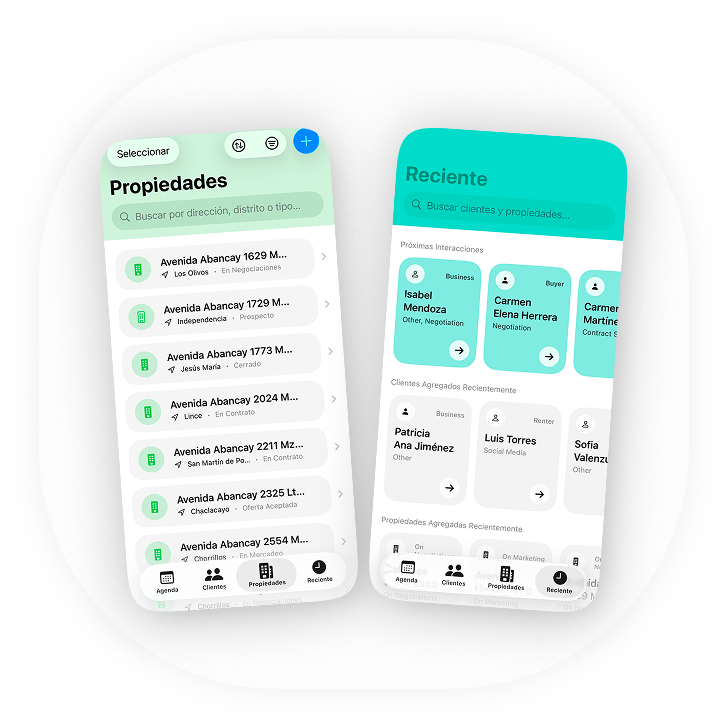
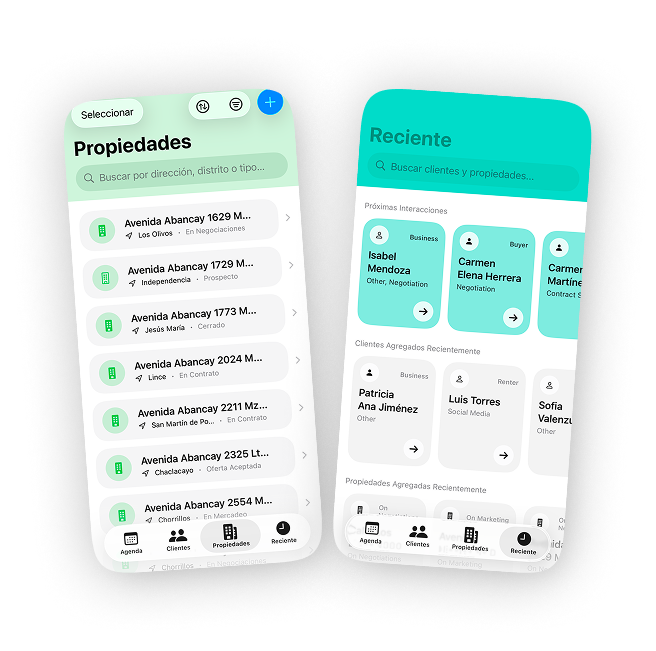
Updates

diff --git a/index.html b/index.html
@@ -725,7 +725,7 @@
 
                                 <div class="apps-parallax-layer apps-parallax-layer--back" data-parallax-depth="0.2">
                                     <img 
-                                        src="images/leads-back-layer-es-03.png" 
+                                        src="images/leads-back-layer-es-03.png"
                                         alt=""
                                         aria-hidden="true"
                                         loading="lazy"
@@ -736,7 +736,7 @@
 
                                 <div class="apps-parallax-layer apps-parallax-layer--middle" data-parallax-depth="0.4">
                                     <img 
-                                        src="images/leads-mid-layer-es-02.png" 
+                                        src="images/leads-mid-layer-es-02.png"
                                         alt=""
                                         aria-hidden="true"
                                         loading="lazy"
@@ -747,7 +747,7 @@
 
                                 <div class="apps-parallax-layer apps-parallax-layer--front" data-parallax-depth="0.6">
                                     <img 
-                                        src="images/leads-top-layer-es-01.png" 
+                                        src="images/leads-top-layer-es-01.png"
                                         alt="Bricks Leads App Screenshot" 
                                         loading="lazy"
                                         class="w-full rounded-xl"

diff --git a/scripts.js b/scripts.js
@@ -323,15 +323,15 @@ const updateAppScreenshots = (lang) => {
             },
             'bricks-leads-layer-back': {
                 es: 'images/leads-back-layer-es-03.png',
-                en: 'images/leads-back-layer-es-03.png' // English artwork pending; reuse Spanish layer as placeholder
+                en: 'images/leads-back-layer-en-03.png'
             },
             'bricks-leads-layer-middle': {
                 es: 'images/leads-mid-layer-es-02.png',
-                en: 'images/leads-mid-layer-es-02.png'
+                en: 'images/leads-mid-layer-en-02.png'
             },
             'bricks-leads-layer-front': {
-                es: 'images/top-layer-es-01.png',
-                en: 'images/top-layer-en-01.png'
+                es: 'images/leads-top-layer-es-01.png',
+                en: 'images/leads-top-layer-en-01.png'
             }
         };
         
